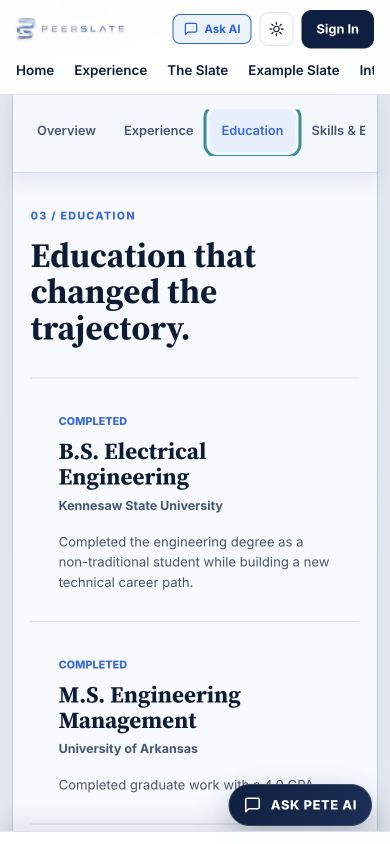
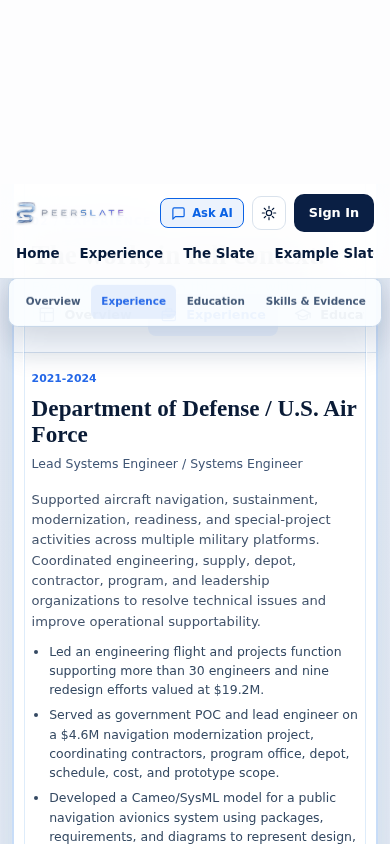
PS-FEAT-001: tighten Ledger vertical rhythm and rail
The resume body sections carried large empty bands (5rem section
paddings, three-line 2.6rem headings, 2.5rem experience rows) and the
left section rail stretched to a forced 37rem with a blank gap before
its last-updated note.

- Tighten section/header/row/credential/evidence paddings and margins
- Scale section headings 2.6rem -> 2rem on a wider measure
- Split rail and detail into two rounded cards; rail hugs its content
- Drop ledger-panel min-height 37rem -> 24rem
- Recompose Key Outcomes cards (value beside icon) per approved mockup
- Matching mobile reductions; page tail 10rem -> 5rem
- 1440x900 page height 6478px -> 5329px (-18%); content unchanged
- 5/5 tests pass; refreshed review screenshots

Claude-Session: https://claude.ai/code/session_01X69ihbNbK24HZiouVEQ2qu

diff --git a/static/css/living-resume-v2.css b/static/css/living-resume-v2.css
@@ -43,7 +43,7 @@
 
 .lr-page {
     min-width: 0;
-    padding: 2rem 0 10rem;
+    padding: 2rem 0 5rem;
     color: var(--lr-ink);
     background: linear-gradient(180deg, #f8fbff 0%, #edf3fa 44%, #f8fbff 100%);
     font-family: var(--lr-ui);
@@ -391,8 +391,8 @@
 
 .lr-ledger__body {
     display: grid;
-    grid-template-columns: 14.25rem minmax(0, 1fr);
-    gap: 0;
+    grid-template-columns: 13.5rem minmax(0, 1fr);
+    gap: 0 0.85rem;
     padding: 0.85rem 1rem 1rem;
     background: #f6f9fd;
 }
@@ -401,15 +401,13 @@
     position: sticky;
     top: 5.5rem;
     display: flex;
-    min-height: 37rem;
     height: fit-content;
     flex-direction: column;
-    justify-content: space-between;
     align-self: start;
-    padding: 1rem 0.75rem;
+    padding: 1rem 0.75rem 0.75rem;
     background: #f3f7fc;
     border: 1px solid #d3deec;
-    border-radius: 0.75rem 0 0 0.75rem;
+    border-radius: 0.75rem;
 }
 
 .lr-ledger__rail nav {
@@ -455,8 +453,8 @@
 }
 
 .lr-ledger__rail > p {
-    margin: 0.75rem;
-    padding-top: 1rem;
+    margin: 0.9rem 0.75rem 0.35rem;
+    padding-top: 0.85rem;
     color: #6b7e96;
     border-top: 1px solid var(--lr-line);
     font-size: 0.72rem;
@@ -470,13 +468,12 @@
 .lr-ledger__detail {
     min-width: 0;
     background: #ffffff;
-    border-block: 1px solid #d3deec;
-    border-right: 1px solid #d3deec;
-    border-radius: 0 0.75rem 0.75rem 0;
+    border: 1px solid #d3deec;
+    border-radius: 0.75rem;
 }
 
 .lr-ledger-panel {
-    min-height: 37rem;
+    min-height: 24rem;
     padding: 1.35rem 1.75rem 1.5rem;
 }
 
@@ -666,8 +663,8 @@
 .lr-outcome {
     position: relative;
     min-width: 0;
-    min-height: 9.4rem;
-    padding: 1rem 0.9rem 0.95rem 4rem;
+    min-height: 7.5rem;
+    padding: 0.95rem 0.9rem 0.9rem;
     color: var(--lr-ink);
     text-align: left;
     background: #ffffff;
@@ -679,10 +676,10 @@
 
 .lr-outcome__icon {
     position: absolute;
-    top: 1.15rem;
-    left: 1rem;
-    width: 2.35rem !important;
-    height: 2.35rem !important;
+    top: 1rem;
+    left: 0.9rem;
+    width: 2.2rem !important;
+    height: 2.2rem !important;
     color: #289cb9;
     stroke-width: 1.55 !important;
 }
@@ -694,15 +691,18 @@
 
 .lr-outcome strong {
     display: block;
+    min-height: 2.2rem;
+    margin-left: 2.95rem;
     color: #123568;
     font-family: var(--lr-display);
-    font-size: 2.15rem;
-    line-height: 1;
+    font-size: 2rem;
+    line-height: 1.05;
 }
 
 .lr-outcome span {
     display: block;
-    margin-top: 0.45rem;
+    margin-top: 0.2rem;
+    margin-left: 2.95rem;
     font-size: 0.74rem;
     font-weight: 700;
     line-height: 1.3;
@@ -710,7 +710,7 @@
 
 .lr-outcome small {
     display: block;
-    margin-top: 0.65rem;
+    margin-top: 0.55rem;
     color: #64768e;
     font-size: 0.66rem;
     line-height: 1.35;
@@ -865,7 +865,7 @@
 }
 
 .lr-vertical-section {
-    padding: 5rem 2rem;
+    padding: 2.75rem 2rem 3rem;
     border-top: 1px solid #d3deec;
 }
 
@@ -874,8 +874,8 @@
 }
 
 .lr-vertical-section__header {
-    max-width: 46rem;
-    margin-bottom: 2.5rem;
+    max-width: 52rem;
+    margin-bottom: 1.4rem;
 }
 
 .lr-vertical-section__header > span {
@@ -887,19 +887,20 @@
 }
 
 .lr-vertical-section__header h2 {
-    max-width: 18ch;
-    margin: 0.65rem 0 0;
+    max-width: 32ch;
+    margin: 0.5rem 0 0;
     color: var(--lr-ink);
     font-family: var(--lr-display);
-    font-size: 2.6rem;
-    line-height: 1.05;
+    font-size: 2rem;
+    line-height: 1.08;
 }
 
 .lr-vertical-section__header p {
     max-width: 62ch;
-    margin: 0.8rem 0 0;
+    margin: 0.45rem 0 0;
     color: var(--lr-ink-soft);
-    line-height: 1.6;
+    font-size: 0.88rem;
+    line-height: 1.55;
 }
 
 .lr-experience-list {
@@ -909,8 +910,8 @@
 .lr-experience-row {
     display: grid;
     grid-template-columns: minmax(12rem, 0.7fr) minmax(0, 1.3fr);
-    gap: 2.5rem;
-    padding: 2.5rem 0;
+    gap: 2rem;
+    padding: 1.5rem 0;
     border-bottom: 1px solid #cfdceb;
 }
 
@@ -948,7 +949,7 @@
 }
 
 .lr-experience-row ul {
-    margin: 1rem 0 0;
+    margin: 0.6rem 0 0;
     padding-left: 1.1rem;
     color: #344962;
     font-size: 0.78rem;
@@ -956,7 +957,7 @@
 }
 
 .lr-experience-row li + li {
-    margin-top: 0.55rem;
+    margin-top: 0.35rem;
 }
 
 .lr-credential-list {
@@ -967,7 +968,7 @@
 
 .lr-credential-list article {
     min-width: 0;
-    padding: 1.75rem;
+    padding: 1.25rem 1.5rem;
 }
 
 .lr-credential-list article + article {
@@ -975,7 +976,7 @@
 }
 
 .lr-credential-list p {
-    margin-top: 1rem;
+    margin-top: 0.55rem;
 }
 
 .lr-evidence-index {
@@ -986,7 +987,7 @@
 
 .lr-evidence-index details {
     min-width: 0;
-    padding: 1.25rem 1rem;
+    padding: 0.95rem 1rem;
     border-bottom: 1px solid #cfdceb;
 }
 
@@ -1029,7 +1030,7 @@
 }
 
 .lr-document-section {
-    padding-bottom: 6rem;
+    padding-bottom: 3rem;
 }
 
 .lr-document-section > a,
@@ -2126,7 +2127,7 @@
         min-height: 0;
         min-width: 0;
         max-width: 100%;
-        padding: 1.5rem 1.1rem 2rem;
+        padding: 1.35rem 1.1rem 1.6rem;
     }
 
     .lr-panel__header {
@@ -2154,21 +2155,21 @@
     }
 
     .lr-vertical-section {
-        padding: 4rem 1.1rem;
+        padding: 2.5rem 1.1rem;
     }
 
     .lr-vertical-section__header {
-        margin-bottom: 2rem;
+        margin-bottom: 1.25rem;
     }
 
     .lr-vertical-section__header h2 {
-        font-size: 2.15rem;
+        font-size: 1.7rem;
     }
 
     .lr-experience-row {
         grid-template-columns: 1fr;
-        gap: 1.25rem;
-        padding: 2rem 0;
+        gap: 1rem;
+        padding: 1.4rem 0;
     }
 
     .lr-evidence-index {
@@ -2180,6 +2181,10 @@
     }
 
     .lr-outcome {
+        min-height: 0;
+    }
+
+    .lr-outcome strong {
         min-height: 0;
     }
 

diff --git a/templates/living_resume_v2.html b/templates/living_resume_v2.html
@@ -12,7 +12,7 @@
     document.querySelector('meta[name="viewport"]')
         .setAttribute('content', 'width=device-width, initial-scale=1.0');
 </script>
-<link rel="stylesheet" href="{{ url_for('static', filename='css/living-resume-v2.css') }}?v=approved-2">
+<link rel="stylesheet" href="{{ url_for('static', filename='css/living-resume-v2.css') }}?v=approved-3">
 {% endblock %}
 
 {% block body_class %} living-resume-v2-page{% endblock %}

diff --git a/docs/implementation-reports/PS-FEAT-001-first-pass.md b/docs/implementation-reports/PS-FEAT-001-first-pass.md
@@ -47,6 +47,19 @@
 - `docs/implementation-reports/screenshots/PS-FEAT-001/mobile-constellation-390x844.png`
 - `docs/implementation-reports/screenshots/PS-FEAT-001/mobile-education-390x844.png`
 
+## Refinement pass 1 — Ledger vertical rhythm (2026-07-10)
+
+Feedback: the résumé body sections (Overview, Experience, Education, Skills & Evidence, Development, Documents) carried too much empty vertical space, and the left section rail showed a large blank gap between its links and the last-updated note.
+
+- Tightened `.lr-vertical-section` padding from 5rem to 2.75/3rem and section-header margins; reduced section headings from 2.6rem to 2rem so they sit on one or two lines instead of three.
+- Reduced experience-row padding (2.5rem to 1.5rem), list spacing, credential-card padding, evidence-index padding, and the Documents/page tail paddings (6rem/10rem to 3rem/5rem).
+- Rebuilt the rail/detail seam as two separate rounded cards with a small gutter: the rail no longer stretches to a forced 37rem with `space-between`, so the last-updated note tucks directly beneath the section links.
+- Dropped the ledger-panel forced min-height from 37rem to 24rem so short chapters (education) no longer trail dead space, while chapter switches remain visually stable.
+- Restructured the Key Outcomes cards to match the approved mockup: the metric value now sits beside the icon with the label under it and context text full width, which shortens the cards.
+- Applied matching mobile reductions (section padding 4rem to 2.5rem, tighter headers and rows).
+- Result at 1440x900: page height 6478px to 5329px (-18%); ledger frame 5014px to 3945px (-21%). Content unchanged - only spacing, type scale, and card composition.
+- Validation: 5/5 unit tests pass; desktop and mobile screenshots refreshed below.
+
 ## Remaining visual differences
 
 - The approved placeholder identity is replaced by Pete's real name, photo, contact links, employers, dates, evidence, metrics, and education data.
